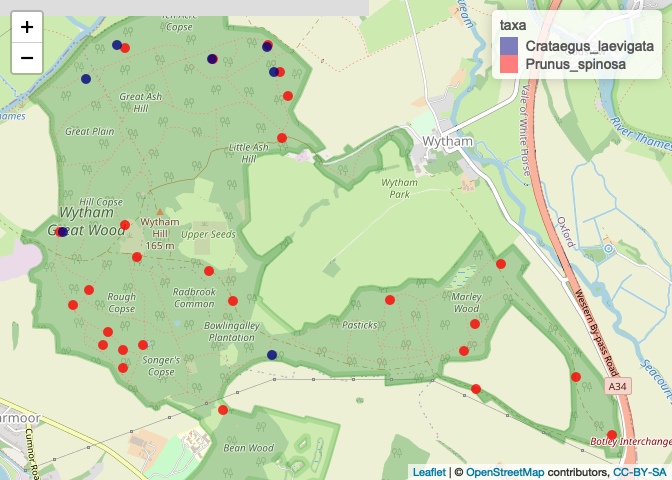
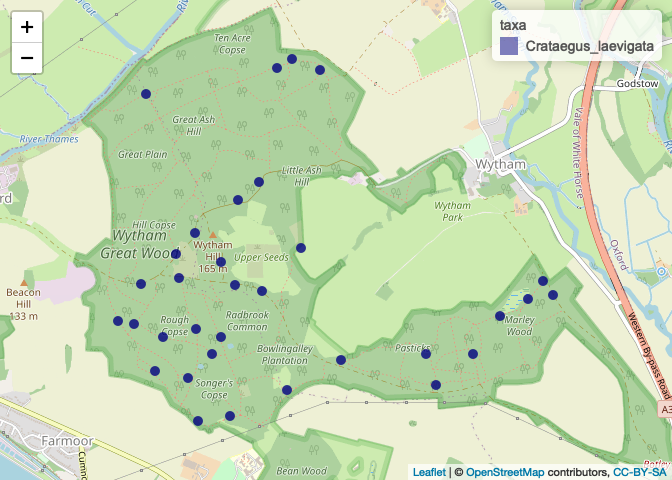
update map for hawthorn

diff --git a/code/exploration/2021-05-28_create-map.md b/code/exploration/2021-05-28_create-map.md
@@ -1,7 +1,7 @@
 Make a map of focal trees
 ================
 Eleanor Jackson
-02 June, 2021
+23 August, 2021
 
 ``` r
 library("tidyverse")
@@ -21,7 +21,8 @@ plotKML::readGPX(here::here("data", "raw", "waypoints.gpx")) %>%
   rename(id = name) %>%
   mutate(taxa = case_when(sym == "Park" ~ "Prunus_spinosa",
                           sym == "Flag, Blue" ~ "Crataegus_laevigata")) %>%
-  select(-sym) -> waypoints
+  select(-sym) %>%
+  arrange(id) -> waypoints
 ```
 
 ## Make a static map
